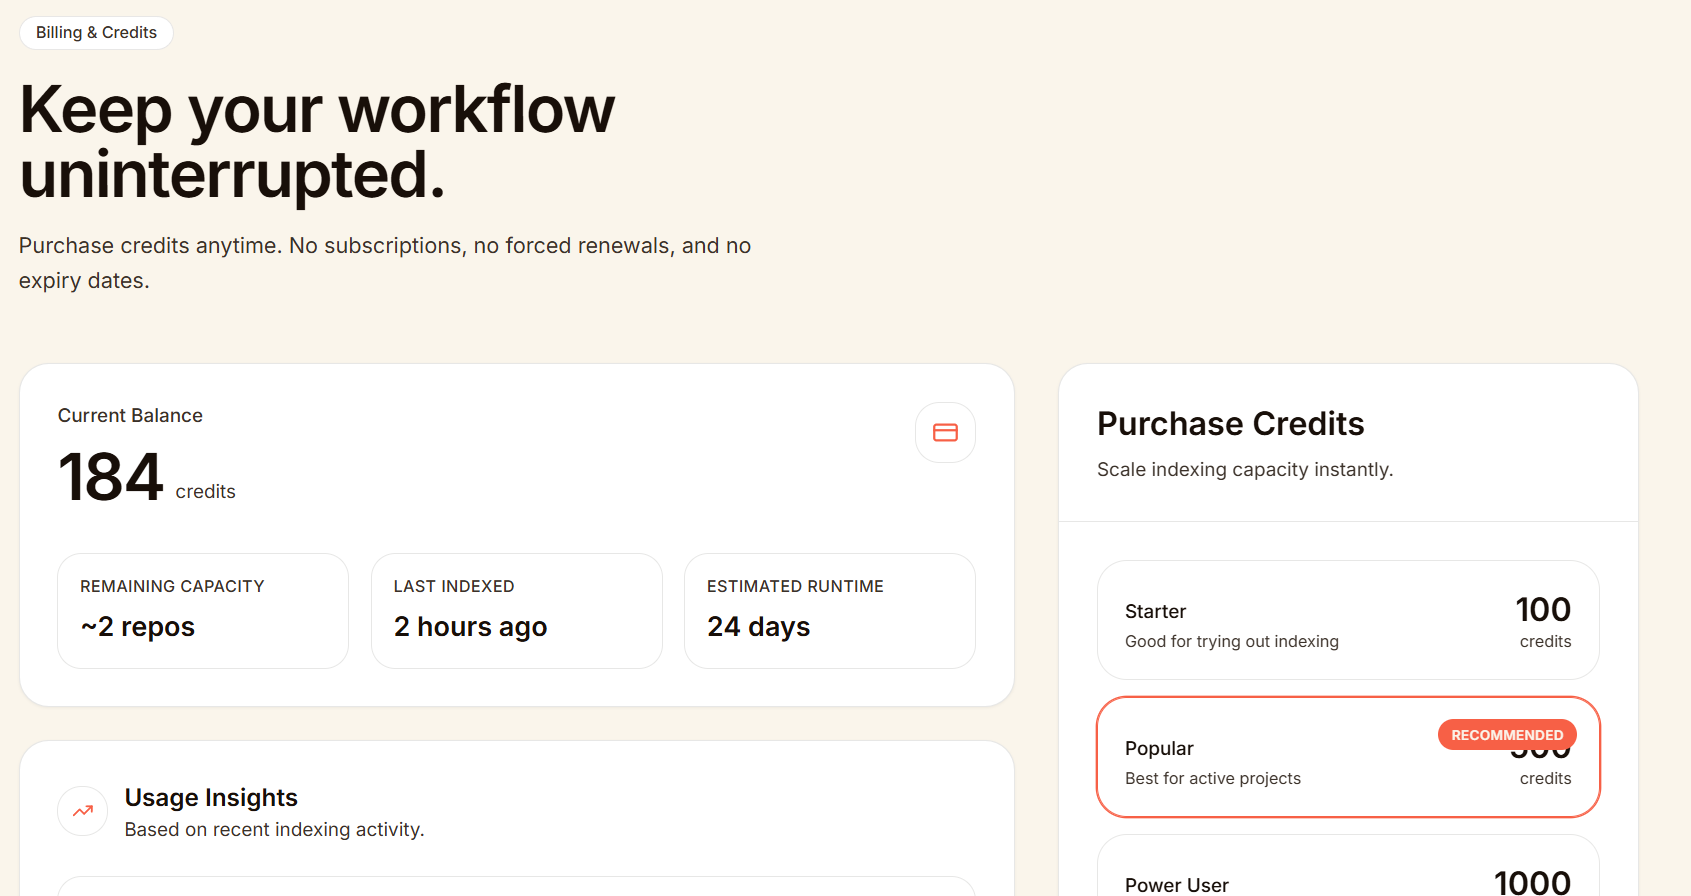
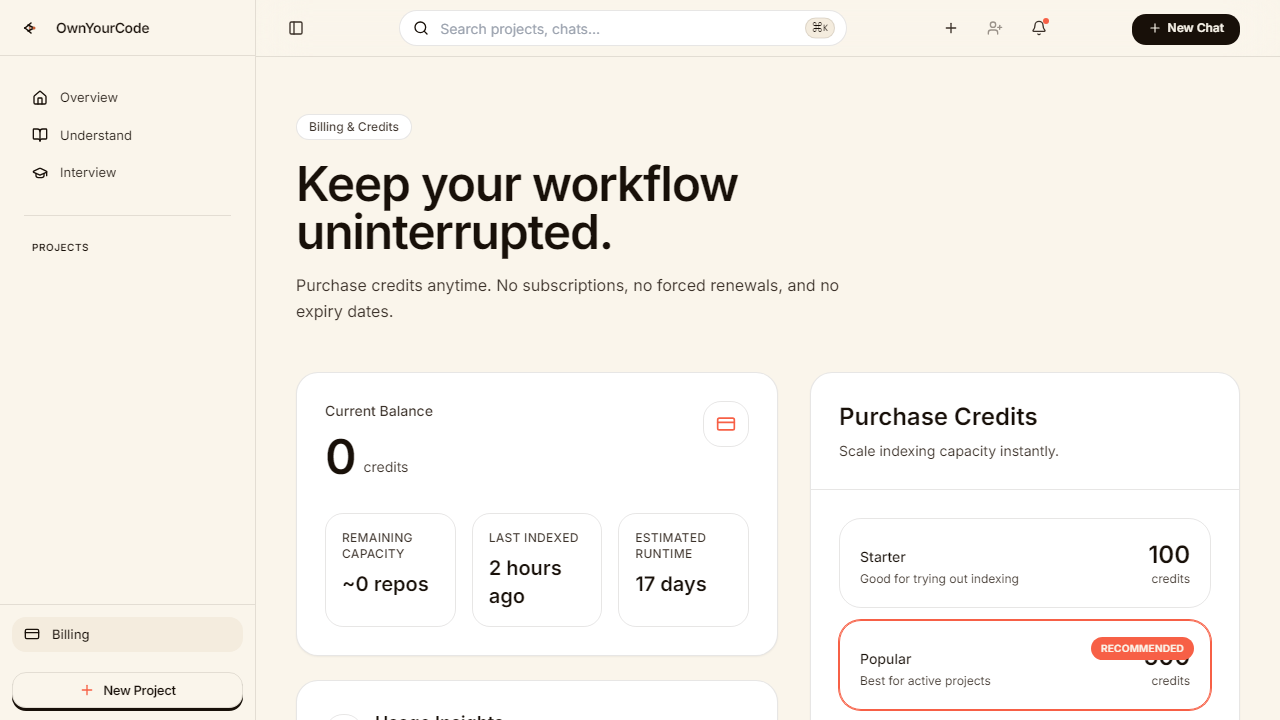
fix: fixed the dependency issue of ai/sdk by remove rsc dependency and using generateText

diff --git a/src/app/(protected)/qa/actions.ts b/src/app/(protected)/qa/actions.ts
@@ -3,8 +3,7 @@
 // maxDuration is set in (protected)/layout.tsx (60s) — it cascades to
 // server actions invoked from pages under that layout segment.
 
-import { streamText, generateObject } from "ai";
-import { createStreamableValue } from "ai/rsc";
+import { generateText, generateObject } from "ai";
 import { createGoogleGenerativeAI } from "@ai-sdk/google";
 import { loadEmbedding } from "@/lib/gemini";
 import { db } from "@/server/db";
@@ -62,38 +61,27 @@ function isConversationalMessage(question: string): boolean {
 async function askConversational(
   question: string,
   prevMessages: { role: string; content: string }[],
-  abortSignal?: AbortSignal,
 ) {
-  const stream = createStreamableValue();
-
   const conversationHistory = prevMessages.length > 0
     ? prevMessages.map((m) => `${m.role === "user" ? "USER" : "ASSISTANT"}:\n${m.content}`).join("\n\n")
     : "";
 
-  const { textStream } = await streamText({
-    model: google("gemini-2.0-flash-lite"),
-    prompt: `You are a friendly, warm AI assistant embedded in a code intelligence tool called OwnYourCode.
+  try {
+    const { text } = await generateText({
+      model: google("gemini-2.5-flash"),
+      prompt: `You are a friendly, warm AI assistant embedded in a code intelligence tool called OwnYourCode.
 Keep replies concise, natural and conversational — 1 to 3 sentences max.
 Never over-explain. Match the user's energy.
 
 ${conversationHistory ? `CONVERSATION SO FAR:\n${conversationHistory}\n\n` : ""}USER: ${question}
 ASSISTANT:`,
-    abortSignal,
-  });
+    });
 
-  (async () => {
-    try {
-      for await (const delta of textStream) {
-        stream.update(delta);
-      }
-    } catch {
-      // silently stop on abort or error
-    } finally {
-      stream.done();
-    }
-  })();
-
-  return { output: stream.value, filesReferences: [], isConversational: true };
+    return { output: text, filesReferences: [], isConversational: true };
+  } catch (error) {
+    console.error("Error in askConversational:", error);
+    return { output: "An error occurred while generating the response. Please check server logs.", filesReferences: [], isConversational: true };
+  }
 }
 
 // ─── Full RAG pipeline ───────────────────────────────────────────────────────
@@ -103,14 +91,11 @@ export async function askChatBot(
   projectId: string,
   prevMessages: { role: string; content: string }[] = [],
   mode: "learn" | "interview" = "learn",
-  abortSignal?: AbortSignal,
 ) {
   // Fast path — skip embeddings, vector search, and smart filtering entirely
   if (isConversationalMessage(question)) {
-    return askConversational(question, prevMessages, abortSignal);
+    return askConversational(question, prevMessages);
   }
-
-  const stream = createStreamableValue();
 
   try {
     // Step 1: embed question for vector search
@@ -211,8 +196,8 @@ BEHAVIOR:
 --- END INTERVIEW MODE ---
 ` : "";
 
-    // Step 5: stream the answer
-    const { textStream } = await streamText({
+    // Step 5: generate the answer
+    const { text } = await generateText({
       model: google("gemini-2.5-flash"),
       prompt: `
       You are an AI code assistant who answers questions about the codebase. Your target audience is a technical user.
@@ -235,31 +220,15 @@ BEHAVIOR:
       If the context does not provide an answer, use your best software engineering knowledge, but don't invent code that definitively isn't there if asked about specific internal logic.
       Answers should be provided in Markdown syntax, with code snippets if needed. Responses should be as detailed as possible, ensuring clarity and accuracy while avoiding unnecessary or misleading information.
       `,
-      abortSignal,
     });
 
-    (async () => {
-      try {
-        for await (const delta of textStream) {
-          stream.update(delta);
-        }
-      } catch (e) {
-        console.error("Error streaming text in askChatBot:", e);
-        stream.update(
-          "\n\nI'm sorry, I ran into an error while streaming the response.",
-        );
-      } finally {
-        stream.done();
-      }
-    })();
-
-    return { output: stream.value, filesReferences: finalResult, isConversational: false };
+    return { output: text, filesReferences: finalResult, isConversational: false };
   } catch (error) {
     console.error("Critical error in askChatBot:", error);
-    stream.update(
-      "An internal error occurred while processing your request. Please check the server logs.",
-    );
-    stream.done();
-    return { output: stream.value, filesReferences: [], isConversational: false };
+    return {
+      output: "An internal error occurred while processing your request. Please check the server logs.",
+      filesReferences: [],
+      isConversational: false,
+    };
   }
 }

diff --git a/src/app/(protected)/qa/page.tsx b/src/app/(protected)/qa/page.tsx
@@ -59,7 +59,7 @@ import { cn } from "@/lib/utils";
 import { Button } from "@/components/ui/button";
 import { toast } from "sonner";
 import { askChatBot } from "./actions";
-import { readStreamableValue } from "ai/rsc";
+
 import { useUser } from "@clerk/nextjs";
 import useRefetch from "@/hooks/useRefetch";
 import {
@@ -537,27 +537,41 @@ export default function QandA() {
       setMessages((prev) => [...prev, { role: "bot", content: "", isConversational: looksConversational }]);
 
       const startTime = Date.now();
-      const { output, filesReferences, isConversational: actuallyConversational } = await askChatBot(userMessage, projectId, messages, chatMode, controller.signal);
+      const { output, filesReferences, isConversational: actuallyConversational } = await askChatBot(userMessage, projectId, messages, chatMode);
       const thinkingTime = (Date.now() - startTime) / 1000;
 
-      let fullAnswer = "";
+      const fullAnswer = output;
 
-      for await (const delta of readStreamableValue(output)) {
-        if (delta) {
-          fullAnswer += delta;
-          setMessages((prev) => {
-            const updated = [...prev];
-            updated[updated.length - 1] = { 
-              role: "bot", 
-              content: fullAnswer, 
-              filesReferences: actuallyConversational ? [] : filesReferences,
-              thinkingTime,
-              isConversational: actuallyConversational,
-            };
-            return updated;
-          });
-        }
+      // Simulate streaming by revealing the response progressively
+      const totalLen = fullAnswer.length;
+      const CHUNK_DELAY = 8;
+      for (let i = 0; i < totalLen; i += Math.max(3, Math.floor(totalLen / 80))) {
+        const revealed = fullAnswer.slice(0, Math.min(i + Math.max(3, Math.floor(totalLen / 80)), totalLen));
+        setMessages((prev) => {
+          const updated = [...prev];
+          updated[updated.length - 1] = {
+            role: "bot",
+            content: revealed,
+            filesReferences: actuallyConversational ? [] : filesReferences,
+            thinkingTime,
+            isConversational: actuallyConversational,
+          };
+          return updated;
+        });
+        await new Promise((r) => setTimeout(r, CHUNK_DELAY));
       }
+      // Final update with complete text
+      setMessages((prev) => {
+        const updated = [...prev];
+        updated[updated.length - 1] = {
+          role: "bot",
+          content: fullAnswer,
+          filesReferences: actuallyConversational ? [] : filesReferences,
+          thinkingTime,
+          isConversational: actuallyConversational,
+        };
+        return updated;
+      });
 
       const finalMessages = [...newMessages, { role: "bot", content: fullAnswer, filesReferences: actuallyConversational ? [] : filesReferences, thinkingTime, isConversational: actuallyConversational }];
 

diff --git a/src/app/(protected)/dashboard/action.ts b/src/app/(protected)/dashboard/action.ts
@@ -48,8 +48,7 @@
 // maxDuration is set in (protected)/layout.tsx (60s) — it cascades to
 // server actions invoked from pages under that layout segment.
 
-import { streamText, generateObject } from "ai";
-import { createStreamableValue } from "ai/rsc";
+import { generateText, generateObject } from "ai";
 import { createGoogleGenerativeAI } from "@ai-sdk/google";
 import { loadEmbedding } from "@/lib/gemini";
 import { db } from "@/server/db";
@@ -60,8 +59,6 @@ const google = createGoogleGenerativeAI({
 });
 
 export async function askQuestion(question: string, projectId: string) {
-  const stream = createStreamableValue();
-
   const queryVector = await loadEmbedding(question);
   const vectorQuery = `[${queryVector.join(",")}]`;
 
@@ -116,7 +113,7 @@ export async function askQuestion(question: string, projectId: string) {
   }
   // console.log("Constructed Context Block:\n", context);
 
-  const { textStream } = await streamText({
+  const { text } = await generateText({
     model: google("gemini-2.5-flash"),
     prompt: `
     You are an AI code assistant who answers questions about the codebase. Your target audience is a technical intern.
@@ -142,20 +139,5 @@ export async function askQuestion(question: string, projectId: string) {
     `,
   });
 
-  (async () => {
-    try {
-      for await (const delta of textStream) {
-        stream.update(delta);
-      }
-    } catch (e) {
-      console.error("Error streaming text in askQuestion:", e);
-      stream.update(
-        "\n\nI'm sorry, I ran into an error while streaming the response.",
-      );
-    } finally {
-      stream.done();
-    }
-  })();
-
-  return { output: stream.value, filesReferences: finalResult };
+  return { output: text, filesReferences: finalResult };
 }

diff --git a/src/app/(protected)/dashboard/AskOwnYourCodeHero.tsx b/src/app/(protected)/dashboard/AskOwnYourCodeHero.tsx
@@ -6,7 +6,6 @@ import { Textarea } from "@/components/ui/textarea";
 import useProject from "@/hooks/useProject";
 import React, { useState, useRef, useEffect } from "react";
 import { askQuestion } from "./action";
-import { readStreamableValue } from "ai/rsc";
 import { Sparkles, ArrowRight, Loader2, X, History, Calendar, Lightbulb, Zap, Quote } from "lucide-react";
 import { cn } from "@/lib/utils";
 import { Dialog, DialogContent, DialogTitle } from "@/components/ui/dialog";
@@ -46,13 +45,15 @@ const AskOwnYourCodeHero = () => {
       setOpen(true);
       setFilesReferences(filesReferences);
 
-      let fullAnswer = "";
-      for await (const delta of readStreamableValue(output)) {
-        if (delta) {
-          fullAnswer += delta;
-          setAnswer(fullAnswer);
-        }
+      const fullAnswer = output;
+      const totalLen = fullAnswer.length;
+      const CHUNK_DELAY = 8;
+      for (let i = 0; i < totalLen; i += Math.max(3, Math.floor(totalLen / 80))) {
+        const revealed = fullAnswer.slice(0, Math.min(i + Math.max(3, Math.floor(totalLen / 80)), totalLen));
+        setAnswer(revealed);
+        await new Promise((r) => setTimeout(r, CHUNK_DELAY));
       }
+      setAnswer(fullAnswer);
 
       // Auto-save the insight once streaming is complete
       saveAnswer.mutate(

diff --git a/src/app/(protected)/dashboard/QuestionCard.tsx b/src/app/(protected)/dashboard/QuestionCard.tsx
@@ -11,7 +11,6 @@ import { Textarea } from "@/components/ui/textarea";
 import useProject from "@/hooks/useProject";
 import React, { useState } from "react";
 import { askQuestion } from "./action";
-import { readStreamableValue } from "ai/rsc";
 import FileReference from "./FileReference";
 import { api } from "@/trpc/react";
 import { toast } from "sonner";
@@ -42,11 +41,15 @@ const QuestionCard = () => {
     setOpen(true);
     setFilesReferences(filesReferences);
 
-    for await (const delta of readStreamableValue(output)) {
-      if (delta) {
-        setAnswer((ans) => ans + delta);
-      }
+    const fullAnswer = output;
+    const totalLen = fullAnswer.length;
+    const CHUNK_DELAY = 8;
+    for (let i = 0; i < totalLen; i += Math.max(3, Math.floor(totalLen / 80))) {
+      const revealed = fullAnswer.slice(0, Math.min(i + Math.max(3, Math.floor(totalLen / 80)), totalLen));
+      setAnswer(revealed);
+      await new Promise((r) => setTimeout(r, CHUNK_DELAY));
     }
+    setAnswer(fullAnswer);
     setLoading(false);
   };
 